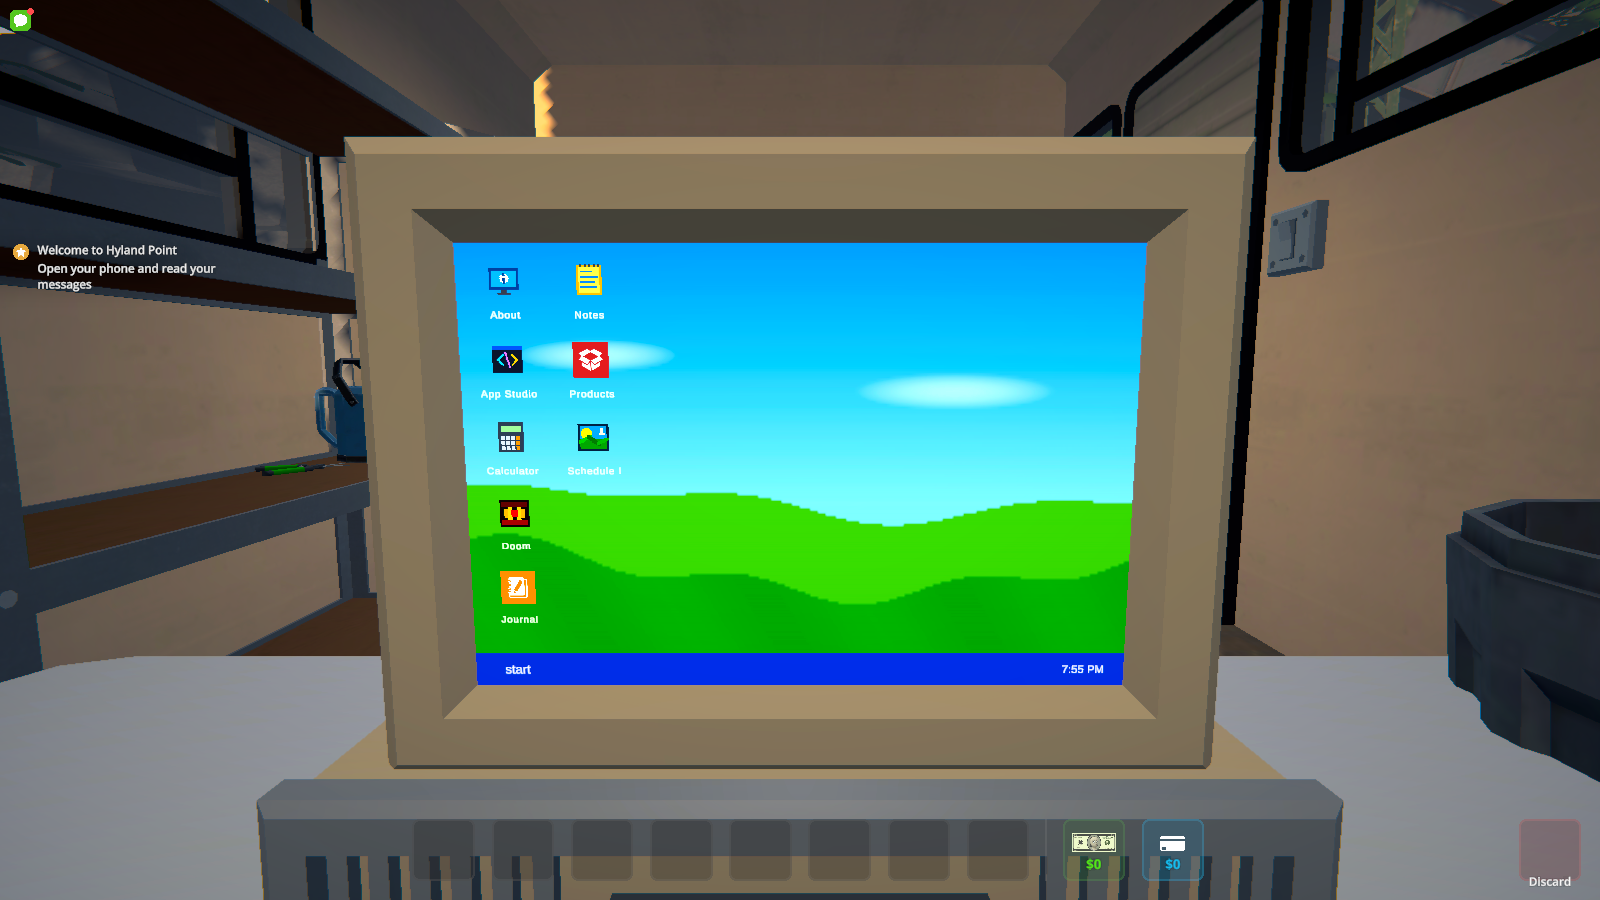
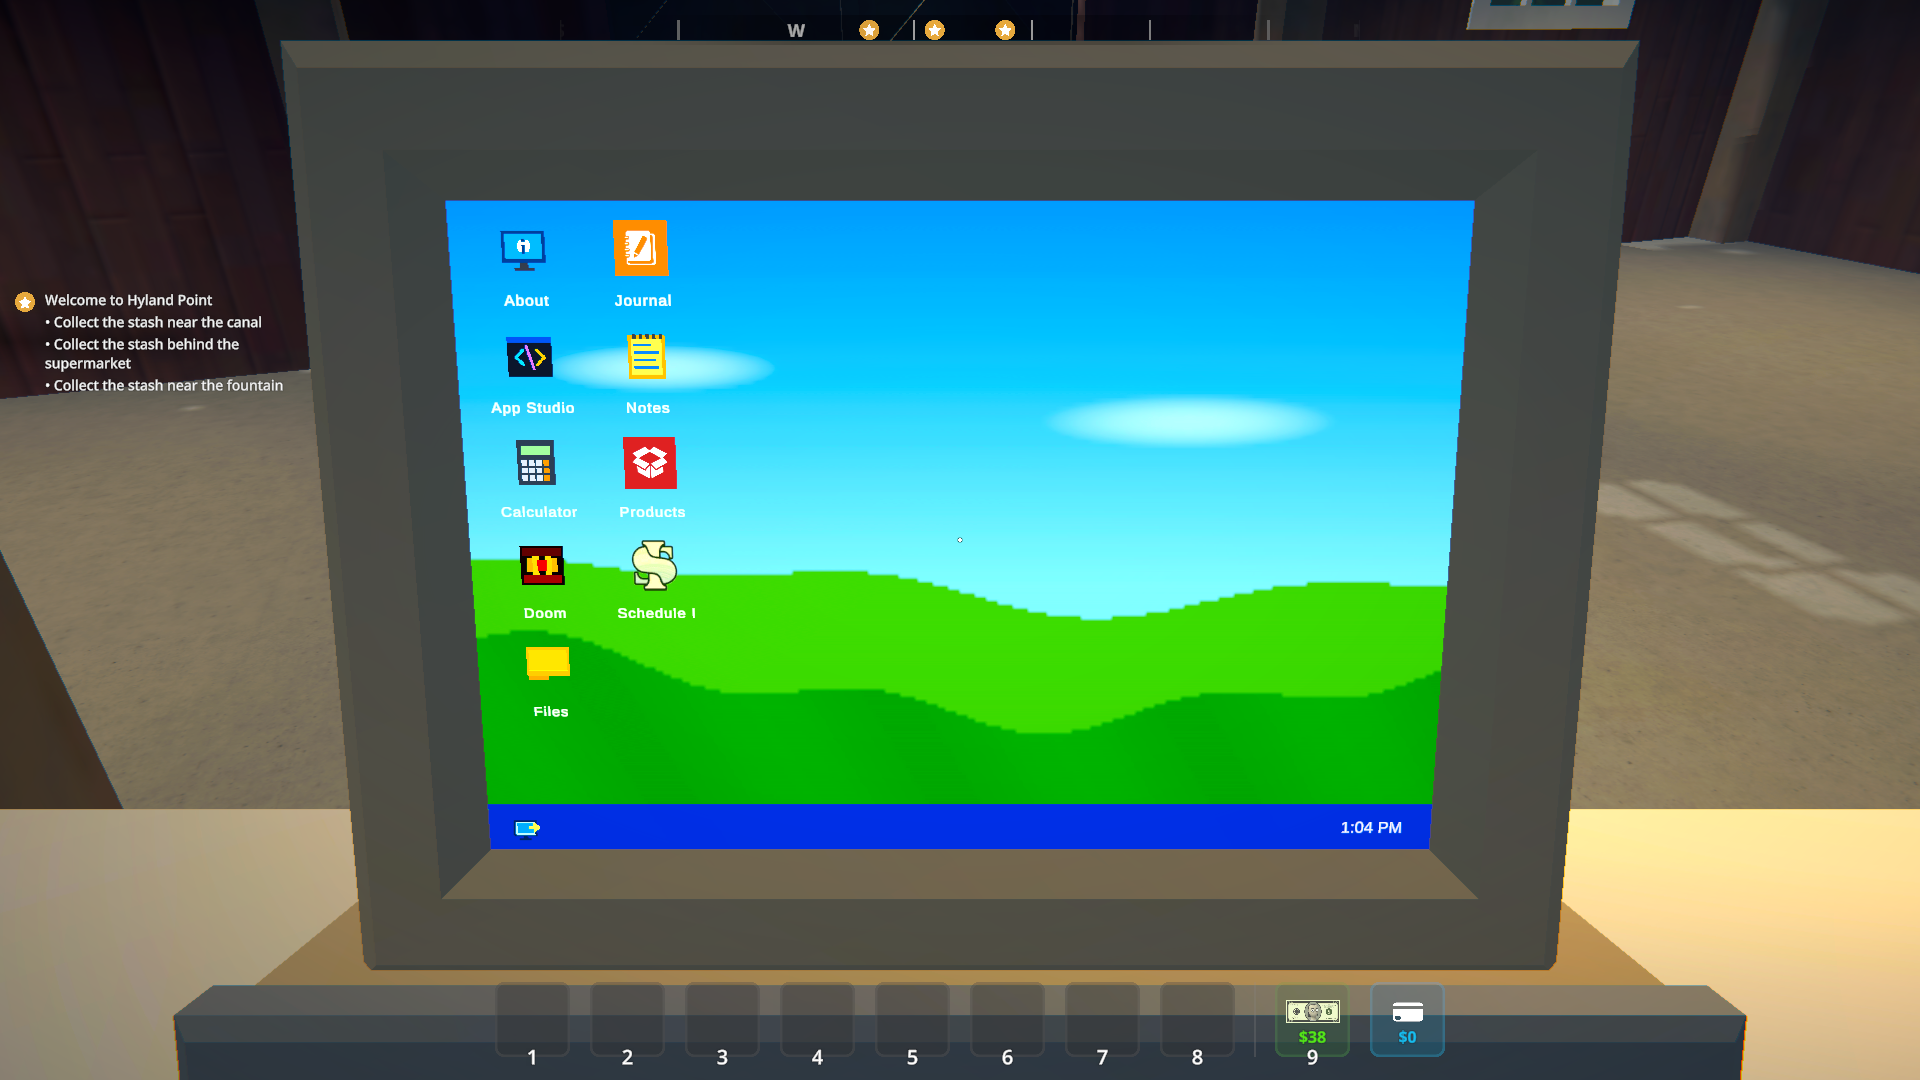
docs: refresh README tour and in-game screenshots (#21)

diff --git a/README.md b/README.md
@@ -1,174 +1,111 @@
 # Usable Computer
 
-A placeable, working computer for Schedule I with an XP-inspired desktop, native game apps, Lua scripting, Doom, and Schedule I running inside itself.
+**Your very legitimate business needs a computer.**
 
-![Usable Computer desktop](docs/images/desktop.png)
+A working, placeable computer for Schedule I. Check your products, keep notes, write a little app, or play Schedule I inside Schedule I. All from an XP-inspired desktop on a CRT.
 
-Usable Computer builds its furniture model at runtime from the game's laundering-station table and old computer. The desktop, icons, wallpaper, windows, and app UI are also created in code. There is no prefab bundle or embedded copy of the game's assets.
+[Install](#install) · [Take a look](#make-yourself-at-home) · [Make an app](#make-an-app) · [Development](docs/development.md) · [Report a bug](https://github.com/ifBars/ScheduleOne-UsableComputer/issues)
 
-## What it does
+![Usable Computer's desktop on an in-world CRT, with app icons and a rolling-hills wallpaper](docs/images/desktop.png)
 
-- Adds a 4x2 computer desk to both hardware shops for $750.
-- Opens through the game's normal interaction flow with a close-up camera and proper input cleanup.
-- Includes Files, Notes, Calculator, Journal, Product Manager, Settings, App Studio, Doom, and Schedule I apps.
-- Reuses live phone icons and product images for native integrations without cloning the phone UI.
-- Supports movable, minimizable, maximizable, and closable desktop windows.
-- Includes persistent light and dark themes plus three independently selected desktop backgrounds.
-- Offers Small, Medium, and Large desktop icons, with automatic ordering by name or folders first.
-- Keeps the Start menu program list scrollable, with Settings and Power off always available.
-- Lets C# mods register apps through a small public API.
-- Lets players write and save sandboxed Lua apps from App Studio.
-- Includes a sandboxed per-save virtual filesystem for desktop folders and app shortcuts.
-- Supports both Mono and IL2CPP builds.
+Buy the **$750 computer desk** from either hardware shop, place it in a **4×2 space**, and interact with it to open the desktop.
 
-## Screenshots
+> [!NOTE]
+> There isn't a packaged release yet. Installation currently requires building from source. Both Mono and IL2CPP are supported.
 
-| Product Manager | App Studio |
+## Make yourself at home
+
+Move windows around, minimize them to the taskbar, or maximize an app when you need the space. Pick a light or dark theme, one of three wallpapers, and Small, Medium, or Large icons.
+
+| Pick your desktop | Find your programs |
 | --- | --- |
-| ![Product Manager using discovered product icons](docs/images/product-manager.png) | ![App Studio in dark mode](docs/images/app-studio.png) |
+| ![Settings with theme, wallpaper, icon size, and ordering controls](docs/images/settings.png) | ![Start menu with its program list and fixed Settings and Power off actions](docs/images/start-menu.png) |
+| Appearance settings survive restarts. Changing the theme keeps your wallpaper. | The program list scrolls; Settings and Power off stay within reach. |
 
-### Schedule I inside Schedule I
+Arrange icons by name or put folders first. Files lets you create and rename folders, move app shortcuts, and delete empty folders. Folders belong to your save; appearance preferences and Notes are shared across saves. When the desktop fills up, scroll horizontally to reach the rest.
 
-![A nested Schedule I instance running inside the computer](docs/images/nested-schedule-one.png)
+The close-up view stays centered on the screen as you resize the game.
 
-The Schedule I app launches a second game process and streams its Unity cameras into the desktop window. The child runs with an isolated MelonLoader setup and a separate save profile, so it cannot open the outer game's active save by accident.
+## Get some work done
 
-This feature is Windows-only and runs two complete game instances. Expect a meaningful CPU, GPU, and memory cost. Click the nested game to control it, press `F10` to return to the desktop, and save before pressing Stop.
+| App | What you can do |
+| --- | --- |
+| **Products** | Browse discovered products, their art and values, and their listing and favourite state. |
+| **Journal** | View and track your quests. |
+| **Notes** | Keep a persistent scratchpad. |
+| **Calculator** | Work out the numbers without leaving the desk. |
+| **Files** | Organize folders and app shortcuts. |
+| **App Studio** | Write Lua apps and load them without restarting. |
 
-### Display size and rendering cost
+![Product Manager open on the computer](docs/images/product-manager.png)
 
-The runtime model is 15% larger than the laundering-station donor, while its 4x2 placement footprint and collision setup stay unchanged. Interaction centers the view on the physical screen. It uses a 55-degree field of view at 16:9 and wider aspect ratios, and widens the view for narrower windows so the screen remains visible. Resizing while the computer is open updates the view automatically.
-
-Nested Schedule I renders at 960x540. Each uncompressed RGBA frame is about 2.0 MiB, compared with 0.9 MiB at the previous 640x360 setting. This is 2.25 times as many pixels per capture, but remains below the bridge's existing 1280x720 capacity.
-
-## Requirements
-
-- Schedule I
-- [MelonLoader](https://github.com/LavaGang/MelonLoader)
-- A matching [S1API](https://github.com/ifBars/S1API) build
-- The Mono build for the alternate Steam branch, or the IL2CPP build for the normal public branch
-
-There is not a packaged release yet. The project can be built and installed locally using the steps below.
-
-## Build and install
-
-Copy [`local.build.props.example`](local.build.props.example) to `local.build.props` and set the paths for both game runtimes and your local S1API builds. The local file is ignored by git because it contains machine-specific paths.
-
-```powershell
-dotnet build UsableComputer.csproj -c Mono
-dotnet build UsableComputer.csproj -c Il2cpp
-```
-
-Install the matching build output like this:
-
-```text
-Mods/
-  UsableComputer_Mono.dll or UsableComputer_Il2cpp.dll
-
-UserLibs/
-  ManagedDoom.Core.dll
-  MoonSharp.Interpreter.dll
-  UsableComputer.ChildHost.dll
-```
-
-Set `AutomateLocalDeployment=true` in `local.build.props` if you want builds copied to your configured game installations. It is disabled by default.
-
-## Built-in apps
-
-Journal and Product Manager read the native game state through narrow adapters. Journal can track quests, while Product Manager displays discovered product art, values, listing state, and favourite state. Neither app reparents or drives the phone canvas.
-
-Notes persist through MelonPreferences. Appearance settings also persist, with theme and background stored separately so switching light or dark mode does not replace the wallpaper.
-
-In Settings, choose a desktop icon size and select **Arrange by name** or **Folders first**. The chosen order is maintained as apps and folders change, with stable node IDs breaking ties between equal names. Size and ordering preferences are shared by all computers and survive game and save reloads. Overflowing desktops have a horizontal scrollbar; long icon labels are shortened to fit their clickable cells. The Start menu program list supports mouse-wheel scrolling and a scrollbar independently of its fixed footer.
-
-Files organizes the desktop through a virtual filesystem stored with the active Schedule I save. Create and rename folders from the Files app, then cut and paste app shortcuts between folders. Empty folders can be deleted. Virtual paths never map to arbitrary files on the host computer, and unavailable mod-app shortcuts remain in place so they recover if the app is installed again.
+## Get absolutely no work done
 
 ### Doom
 
-Doom uses the vendored [Managed Doom](https://github.com/sinshu/managed-doom) engine. The mod does not include game data. Add an IWAD you own, or a compatible free IWAD such as [Freedoom](https://github.com/freedoom/freedoom), to:
+Drop an IWAD you own, or a free [Freedoom](https://github.com/freedoom/freedoom) IWAD, into `UserData/UsableComputer/Doom`, then open Doom.
 
-```text
-UserData/UsableComputer/Doom
-```
+Supported filenames: `doom.wad`, `doom1.wad`, `doom2.wad`, `freedoom1.wad`, and `freedoom2.wad`. Game data isn't included, and audio isn't implemented yet. Press **F10** to release the game's input.
 
-Recognized names are `doom.wad`, `doom1.wad`, `doom2.wad`, `freedoom1.wad`, and `freedoom2.wad`. Press `F10` to release Doom's input. Audio is not implemented yet.
+### Schedule I inside Schedule I
 
-### Lua apps
+![A second Schedule I instance running in a desktop window on the in-game computer](docs/images/nested-schedule-one.png)
 
-App Studio saves Lua apps to `UserData/UsableComputer/Apps` and hot-loads them without restarting the game. Scripts can read player, money, property, employee, product, and quest data through a small S1API-backed surface.
+The Schedule I app launches a second game instance and streams it into a desktop window. It uses a separate save profile and isolated MelonLoader setup to keep it apart from your outer game.
 
-```lua
-return {
-  id = "business-dashboard",
-  title = "Business Dashboard",
-  icon = "studio",
+**Windows only.** This runs two complete games, with the CPU, GPU, and memory cost that implies. Click inside to take control, press **F10** to return to the desktop, and save before pressing **Stop**.
 
-  render = function()
-    local money = computer.money()
+## Install
 
-    return {
-      { kind = "heading", text = "Business Dashboard" },
-      { kind = "stat", label = "Cash", value = computer.currency(money.cash) },
-      { kind = "stat", label = "Bank", value = computer.currency(money.online) },
-    }
-  end
-}
-```
+You'll need Schedule I, [MelonLoader](https://github.com/LavaGang/MelonLoader), a matching [S1API](https://github.com/ifBars/S1API) build, and the .NET SDK.
 
-Lua apps cannot access the filesystem, operating system, CLR, Unity objects, or raw S1API types. Source is limited to 64 KiB, rendered output is limited to 64 rows, and each invocation has a 250 ms execution budget.
+1. Clone this repository and copy [`local.build.props.example`](local.build.props.example) to `local.build.props`.
+2. Set the paths to your game installations and local S1API builds in that file.
+3. Build the configuration that matches your game:
 
-## Add a C# app
+   | Steam branch | Build command | Output directory |
+   | --- | --- | --- |
+   | Alternate / Mono | `dotnet build UsableComputer.csproj -c Mono` | `bin/Mono/netstandard2.1/` |
+   | Public / IL2CPP | `dotnet build UsableComputer.csproj -c Il2cpp` | `bin/Il2cpp/net6.0/` |
 
-Mods can reference `UsableComputer.dll` and register an app without depending on runtime-specific TextMeshPro or Schedule I types:
+4. Copy the matching mod DLL and its companion libraries from the output directory into your game installation:
 
-```csharp
-using UsableComputer.API;
-using UnityEngine;
+   ```text
+   Mods/
+     UsableComputer_Mono.dll OR UsableComputer_Il2cpp.dll
 
-DesktopAppRegistry.Register(new DesktopAppDescriptor(
-    id: "my-mod.app",
-    title: "My App",
-    glyph: "M",
-    preferredWindowSize: new Vector2(440f, 300f),
-    preferredWindowPosition: Vector2.zero,
-    createSession: context => new MyDesktopSession(context)));
-```
+   UserLibs/
+     ManagedDoom.Core.dll
+     MoonSharp.Interpreter.dll
+     UsableComputer.ChildHost.dll
+   ```
 
-Each window gets its own `IDesktopAppSession`. Apps registered after the computer opens appear immediately, and unregistering an app closes its windows and disposes its sessions. See [`examples/ManualDesktopAppSample`](examples/ManualDesktopAppSample) for a complete buildable example.
+Install only the mod DLL for your runtime. Keep the matching S1API installation alongside it. To deploy future builds automatically, set `AutomateLocalDeployment=true` in `local.build.props`; it is off by default.
 
-## Development
+## Make an app
 
-The focused verifiers cover the calculator model, app registry, virtual filesystem, Lua host, and Doom adapter without starting Unity:
+App Studio saves scripts to `UserData/UsableComputer/Apps` and hot-loads them. Build a dashboard from player, money, property, employee, product, and quest data.
 
-```powershell
-dotnet run --project tests\UsableComputer.CalculatorModelVerifier\UsableComputer.CalculatorModelVerifier.csproj -c Release
-dotnet run --project tests\UsableComputer.RegistryVerifier\UsableComputer.RegistryVerifier.csproj -c Release
-dotnet run --project tests\UsableComputer.FileSystemVerifier\UsableComputer.FileSystemVerifier.csproj -c Release
-dotnet run --project tests\UsableComputer.LuaVerifier\UsableComputer.LuaVerifier.csproj -c Release
-dotnet run --project tests\UsableComputer.DoomVerifier\UsableComputer.DoomVerifier.csproj -c Release -- C:\path\to\an\iwad.wad
-```
+![App Studio editing a Lua dashboard, with Save & run below the code](docs/images/app-studio.png)
 
-Camera and display changes have a Mono smoke test that isolates the target install's mod directory, loads a disposable save copy, and captures the physical computer:
+Lua runs in a sandbox: no operating-system access, arbitrary files, CLR, or raw Unity objects. Each invocation has a 250 ms budget, with a 64 KiB source limit and up to 64 rendered rows.
 
-```powershell
-.\tests\Run-DisplaySmoke.ps1 -GamePath C:\path\to\Schedule-I -SourceSavePath C:\path\to\SaveGame
-```
+**[Write your first Lua app or register a C# app →](docs/app-development.md)**
 
-The VFS smoke runner builds an isolated test mod, copies a completed save into a temporary fixture, proves persistence across two game processes, captures the Files window, and restores the target install afterward:
+C# mods can add apps through the public registry. Each window owns its own session; registration updates the desktop immediately. A [buildable sample mod](examples/ManualDesktopAppSample) is included.
 
-```powershell
-.\tests\Run-VfsSmoke.ps1 -Runtime Mono -GamePath C:\path\to\ScheduleI -SourceSavePath C:\path\to\SaveGame_1
-.\tests\Run-VfsSmoke.ps1 -Runtime Il2cpp -GamePath C:\path\to\ScheduleI -SourceSavePath C:\path\to\SaveGame_1
-```
+## Contributing
 
-Pure verifier passes do not replace an in-game test. Test the matching build in a backed-up or disposable save before release.
+Found a bug or have an app idea? [Open an issue](https://github.com/ifBars/ScheduleOne-UsableComputer/issues). For bugs, include your runtime, what you did, and what happened. A screenshot helps with desktop or camera problems.
 
-Open work is tracked in [GitHub Issues](https://github.com/ifBars/ScheduleOne-UsableComputer/issues).
+For code changes, start with the [contributor guide](AGENTS.md), [coding standards](CODING_STANDARDS.md), and [development and testing guide](docs/development.md).
 
-## License and game assets
+## Credits and license
 
-Usable Computer is licensed under GPL-2.0-or-later because it includes Managed Doom. MoonSharp remains under its BSD license. See [`THIRD_PARTY_NOTICES.md`](THIRD_PARTY_NOTICES.md) and the vendored license files for attribution and terms.
+Built with [S1API](https://github.com/ifBars/S1API), [Managed Doom](https://github.com/sinshu/managed-doom), and [MoonSharp](https://www.moonsharp.org/).
 
-No Schedule I assemblies, decompiled code, AssetRipper exports, prefabs, textures, scenes, executable files, or generated IL2CPP wrappers are included. Native game models and sprites are resolved from the player's installed copy at runtime.
+Usable Computer is **GPL-2.0-or-later** because it includes Managed Doom. MoonSharp retains its BSD license. See [third-party notices](THIRD_PARTY_NOTICES.md) and the vendored licenses for details.
 
-This is an unofficial community mod and is not affiliated with or endorsed by TVGS.
+Game models and sprites come from the player's installed copy at runtime. This repository doesn't distribute Schedule I assets or assemblies.
+
+An unofficial community mod, not affiliated with or endorsed by TVGS.

diff --git a/docs/development.md b/docs/development.md
@@ -1,0 +1,51 @@
+# Development
+
+[Back to the README](../README.md)
+
+Run commands from the repository root.
+
+The focused verifiers cover the desktop layout and camera framing, calculator model, app registry, virtual filesystem, Lua host, and Doom adapter without starting Unity:
+
+```powershell
+dotnet run --project tests/UsableComputer.IconLayoutVerifier/UsableComputer.IconLayoutVerifier.csproj -c Release
+dotnet run --project tests\UsableComputer.CalculatorModelVerifier\UsableComputer.CalculatorModelVerifier.csproj -c Release
+dotnet run --project tests\UsableComputer.RegistryVerifier\UsableComputer.RegistryVerifier.csproj -c Release
+dotnet run --project tests\UsableComputer.FileSystemVerifier\UsableComputer.FileSystemVerifier.csproj -c Release
+dotnet run --project tests\UsableComputer.LuaVerifier\UsableComputer.LuaVerifier.csproj -c Release
+dotnet run --project tests\UsableComputer.DoomVerifier\UsableComputer.DoomVerifier.csproj -c Release -- C:\path\to\an\iwad.wad
+```
+
+Camera and display changes have a Mono smoke test that isolates the target install's mod directory, loads a disposable save copy, and captures the physical computer:
+
+```powershell
+.\tests\Run-DisplaySmoke.ps1 -GamePath C:\path\to\Schedule-I -SourceSavePath C:\path\to\SaveGame
+```
+
+The VFS smoke runner builds an isolated test mod, copies a completed save into a temporary fixture, proves persistence across two game processes, captures the Files window, and restores the target install afterward:
+
+```powershell
+.\tests\Run-VfsSmoke.ps1 -Runtime Mono -GamePath C:\path\to\ScheduleI -SourceSavePath C:\path\to\SaveGame_1
+.\tests\Run-VfsSmoke.ps1 -Runtime Il2cpp -GamePath C:\path\to\ScheduleI -SourceSavePath C:\path\to\SaveGame_1
+```
+
+Pure verifier passes do not replace an in-game test. Test the matching build in a backed-up or disposable save before release.
+
+Open work is tracked in [GitHub Issues](https://github.com/ifBars/ScheduleOne-UsableComputer/issues).
+
+## Display size and rendering cost
+
+The runtime model is 15% larger than the laundering-station donor, while its 4x2 placement footprint and collision setup stay unchanged. Interaction centers the view on the physical screen. It uses a 55-degree field of view at 16:9 and wider aspect ratios, and widens the view for narrower windows so the screen remains visible. Resizing while the computer is open updates the view automatically.
+
+Nested Schedule I renders at 960x540, about 2.0 MiB per uncompressed RGBA frame. The shared-memory bridge supports frames up to 1280x720.
+
+## Additional checks and persistence
+
+Add `-IconLayout` to either `Run-VfsSmoke.ps1` command above to check icon sizes, ordering, both themes, desktop overflow, the Start menu, and camera framing at five resolutions. Keep Mono and IL2CPP results separate.
+
+Notes and appearance preferences use MelonPreferences and are shared across computers and saves. Theme and wallpaper are stored independently. Icon ordering is maintained as apps and folders change; stable node IDs break ties between equal names.
+
+The virtual filesystem belongs to the active Schedule I save. Virtual paths never map to arbitrary host files. Unavailable mod-app shortcuts remain in place so they recover when the app is installed again.
+
+Journal and Product Manager use narrow adapters for native game state. They do not reparent or drive the phone canvas.
+
+The computer model and UI are created at runtime from the game's laundering-station table and old computer. No prefab bundle or copy of the game's assets is embedded.

diff --git a/docs/app-development.md b/docs/app-development.md
@@ -1,0 +1,50 @@
+# Make an app for Usable Computer
+
+[Back to the README](../README.md)
+
+Use App Studio for a Lua dashboard, or register a C# app from another mod.
+
+## Lua apps
+
+App Studio saves Lua apps to `UserData/UsableComputer/Apps` and hot-loads them without restarting the game. Scripts can read player, money, property, employee, product, and quest data through a small S1API-backed surface.
+
+```lua
+return {
+  id = "business-dashboard",
+  title = "Business Dashboard",
+  icon = "studio",
+
+  render = function()
+    local money = computer.money()
+
+    return {
+      { kind = "heading", text = "Business Dashboard" },
+      { kind = "stat", label = "Cash", value = computer.currency(money.cash) },
+      { kind = "stat", label = "Bank", value = computer.currency(money.online) },
+    }
+  end
+}
+```
+
+Lua apps cannot access the filesystem, operating system, CLR, Unity objects, or raw S1API types. Source is limited to 64 KiB, rendered output is limited to 64 rows, and each invocation has a 250 ms execution budget.
+
+## Add a C# app
+
+Mods can reference `UsableComputer_Mono.dll` or `UsableComputer_Il2cpp.dll` and register an app without depending on runtime-specific TextMeshPro or Schedule I types:
+
+```csharp
+using UsableComputer.API;
+using UnityEngine;
+
+DesktopAppRegistry.Register(new DesktopAppDescriptor(
+    id: "my-mod.app",
+    title: "My App",
+    glyph: "M",
+    preferredWindowSize: new Vector2(440f, 300f),
+    preferredWindowPosition: Vector2.zero,
+    createSession: context => new MyDesktopSession(context)));
+```
+
+Each window gets its own `IDesktopAppSession`. Apps registered after the computer opens appear immediately, and unregistering an app closes its windows and disposes its sessions. See [`examples/ManualDesktopAppSample`](../examples/ManualDesktopAppSample) for a complete buildable example.
+
+
